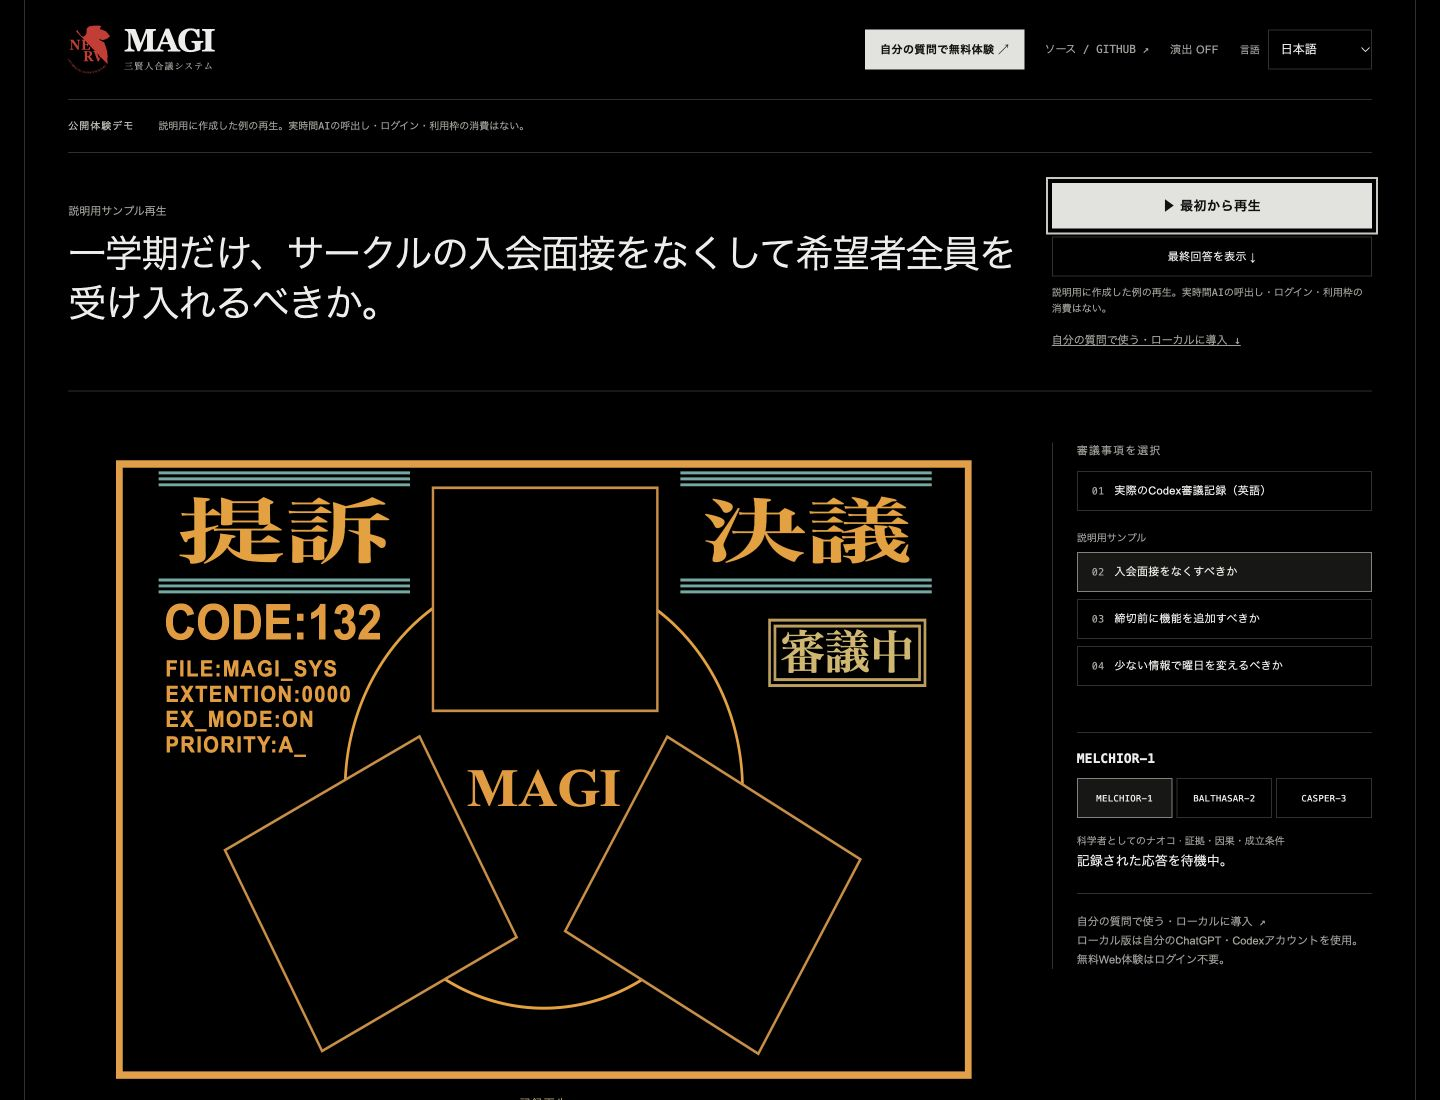
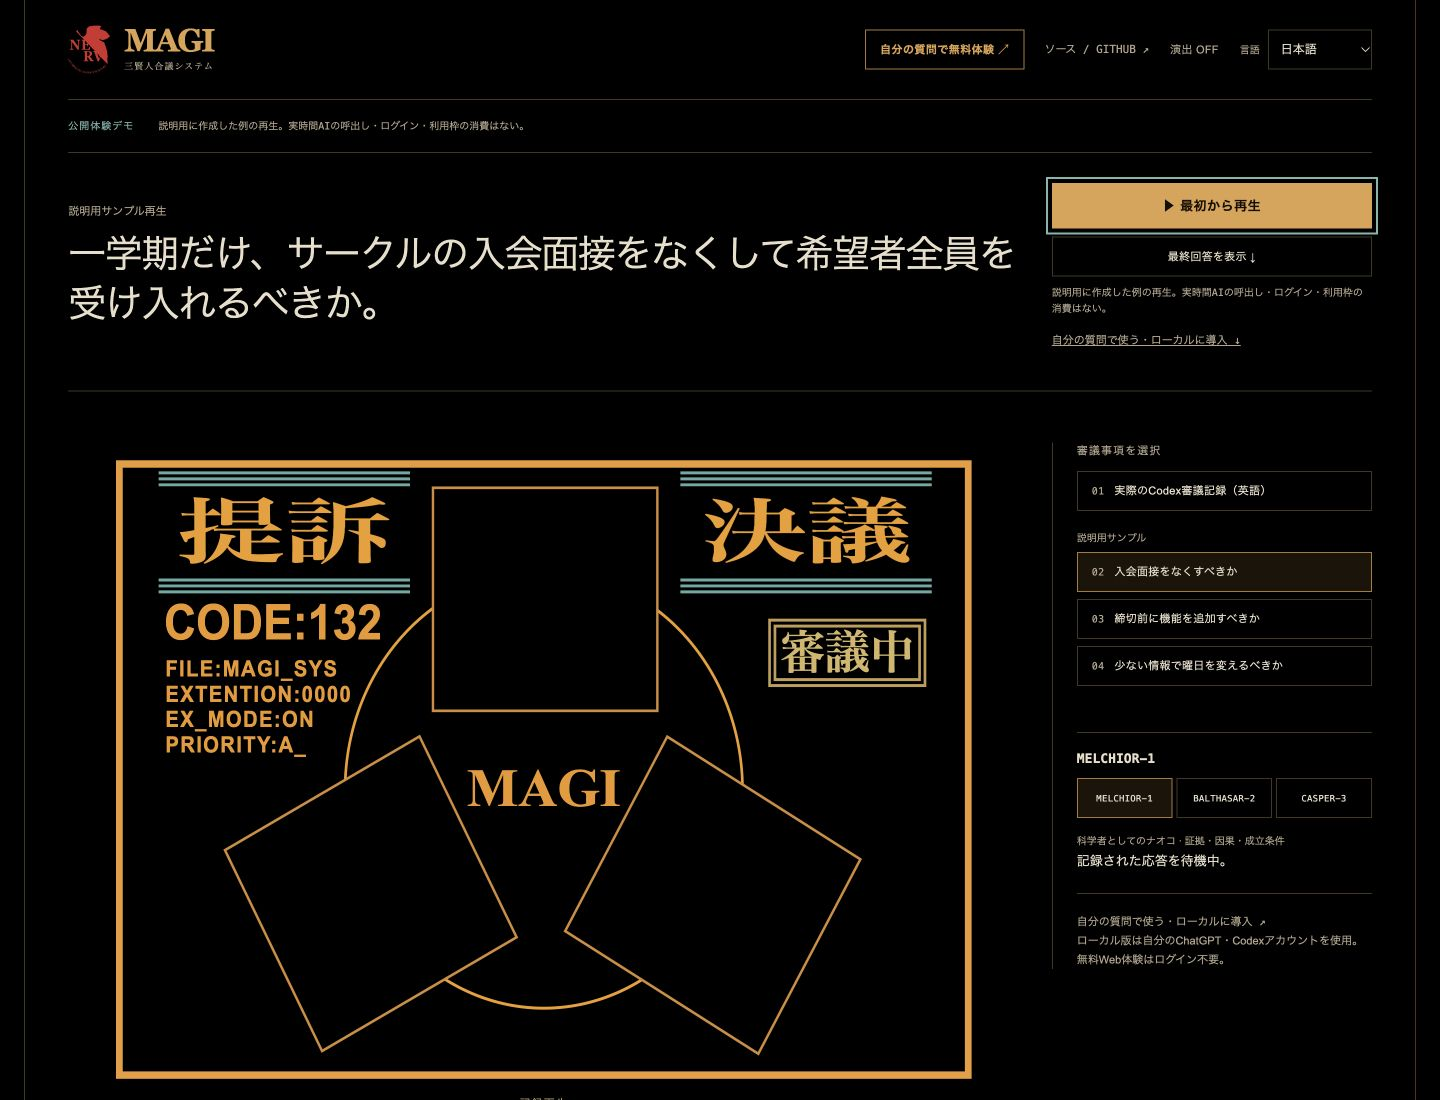
Unify the public frame with MAGI amber and cyan

diff --git a/src/demo/frame.css b/src/demo/frame.css
@@ -1,11 +1,14 @@
-/* Celetix reference: black canvas, fine rules, quiet type, square controls.
-   These styles surround the original MAGI drawing; its geometry and palette
-   deliberately retain their own rules. No external fonts or assets are used. */
+/* Celetix informs the spacing and fine rules. The surrounding palette belongs
+   to MAGI: black, warm ivory, amber and restrained cyan. The original drawing
+   keeps its own rules. No external fonts or assets are used. */
 .demo-shell {
-  --frame-text: #ededeb;
-  --frame-muted: #a1a19c;
-  --frame-line: #30302e;
-  --frame-surface: #080808;
+  --frame-text: #e8dfca;
+  --frame-muted: #b3a58c;
+  --frame-line: #443724;
+  --frame-surface: #0a0906;
+  --frame-accent: #dfa24f;
+  --frame-accent-soft: #a9793c;
+  --frame-cyan: #7db7ac;
   color: var(--frame-text);
   font-family: Arial, 'Hiragino Kaku Gothic ProN', 'Malgun Gothic', sans-serif;
 }
@@ -31,28 +34,28 @@
   font-weight: 400;
 }
 .demo-shell button:hover:not(:disabled) {
-  color: #fff;
-  border-color: #8b8b85;
-  background: #151515;
+  color: var(--frame-text);
+  border-color: var(--frame-accent-soft);
+  background: #171209;
 }
 .demo-shell button.primary {
-  border-color: #e2e2de;
-  color: #111;
-  background: #e2e2de;
+  border-color: var(--frame-accent);
+  color: #160e04;
+  background: var(--frame-accent);
   font-weight: 600;
 }
 .demo-shell button.primary:hover:not(:disabled) {
-  color: #000;
-  background: #fff;
-  border-color: #fff;
+  color: #160e04;
+  background: #efb866;
+  border-color: #efb866;
 }
 .demo-shell :is(button, a, summary):focus-visible {
-  outline: 2px solid #c8c8c2;
+  outline: 2px solid var(--frame-cyan);
   outline-offset: 4px;
 }
 .demo-shell :is(input, select, textarea):focus {
-  outline: 1px solid #b6b6b0;
-  border-color: #b6b6b0;
+  outline: 1px solid var(--frame-accent-soft);
+  border-color: var(--frame-accent-soft);
 }
 .demo-shell :is(a, .language-control) {
   color: var(--frame-muted);
@@ -78,6 +81,7 @@
 }
 .demo-header .command-masthead strong {
   font-size: 32px;
+  color: var(--frame-accent);
 }
 .demo-header .command-masthead div > span {
   color: var(--frame-muted);
@@ -85,6 +89,15 @@
 }
 .demo-links {
   gap: 12px 20px;
+}
+.demo-shell .demo-links > button.primary {
+  color: var(--frame-accent);
+  border-color: var(--frame-accent-soft);
+  background: transparent;
+}
+.demo-shell .demo-links > button.primary:hover:not(:disabled) {
+  color: #160e04;
+  background: var(--frame-accent);
 }
 .demo-links > button:not(.primary) {
   border-color: transparent;
@@ -102,7 +115,7 @@
   font-size: 10px;
 }
 .demo-notice strong {
-  color: #c6c6c0;
+  color: var(--frame-cyan);
   font-weight: 400;
   letter-spacing: 0.1em;
 }
@@ -167,9 +180,9 @@
   border-color: var(--frame-line);
 }
 .demo-shell :is(.demo-examples button, .demo-personas button)[aria-pressed='true'] {
-  color: #f0f0eb;
-  background: #171716;
-  border-color: #82827b;
+  color: var(--frame-text);
+  background: #1b140a;
+  border-color: var(--frame-accent-soft);
 }
 .demo-shell
   :is(
@@ -196,8 +209,8 @@
   font-weight: 400;
 }
 .demo-shell .sequence-strip [aria-current='step'] {
-  background: #1d1b16;
-  color: #efb660;
+  background: #211708;
+  color: var(--frame-accent);
 }
 .demo-shell :is(.deliberation-status, .answer-details, .answer-sources) {
   border-color: var(--frame-line);
@@ -264,7 +277,7 @@
   color: var(--frame-muted);
 }
 .demo-shell :is(.demo-answer, .demo-inspector):focus {
-  outline-color: #82827b;
+  outline-color: var(--frame-accent-soft);
 }
 .demo-shell .trial-entry {
   padding: 24px 0;

diff --git a/docs/INTERFACE.md b/docs/INTERFACE.md
@@ -70,7 +70,7 @@ The recorded-demo mode is replay-only. A separate **Try your own question — fr
 
 The trial starts with a question field, Start button, remaining IP allowance and reset time. Model, usage and privacy details are in a collapsed **Usage & privacy** section; a short Cloudflare transmission notice remains beside it. There is no introductory slogan or idle instruction beneath the console. Japanese console artwork stays unchanged in all four languages.
 
-The surrounding public interface takes visual cues from [Celetix](https://celetix.com/): black backgrounds, fine gray rules, restrained white type, square controls and more deliberate spacing. The original MAGI geometry, amber palette, Japanese lettering, blue pulses and decision reveal keep their own styles. No Celetix assets, fonts or copy are bundled. Replay, free questions, language selection, video, sharing and local setup remain available.
+The surrounding public interface takes layout cues from [Celetix](https://celetix.com/): fine rules, restrained type, square controls and deliberate spacing. Its colors come from MAGI: black, warm ivory, amber controls, bronze rules and restrained cyan status accents. The original MAGI geometry, Japanese lettering, blue pulses and decision reveal keep their own styles. No Celetix assets, fonts or copy are bundled. Replay, free questions, language selection, video, sharing and local setup remain available.
 
 ![Local app sign-in](./screenshots/login.png)
 

diff --git a/docs/INTERFACE.ko.md b/docs/INTERFACE.ko.md
@@ -26,7 +26,7 @@
 
 공개 무료 체험의 첫 화면은 질문 입력·시작·IP별 남은 횟수·초기화 시각으로 정리했다. 모델·이용 조건·개인정보 설명은 접힌 **이용 안내**에서 확인한다. Cloudflare 전송 안내는 짧게 남기고, 도입 구호와 대기 중 중복 안내는 뺐다. 원작 일본어 콘솔은 네 언어에서 그대로 유지한다.
 
-주변 화면은 [Celetix](https://celetix.com/)의 검은 바탕·가는 회색 선·담백한 흰색 글자·각진 버튼·여백을 참고했다. 중앙 MAGI의 도형·주황색·일본어·청색 점멸·판정 연출은 별도 스타일로 유지한다. Celetix의 이미지·폰트·문구는 가져오지 않았다. 재생·무료 질문·언어 선택·영상·판정 공유·로컬 설치 기능도 유지한다.
+주변 화면의 가는 선·담백한 글자·각진 버튼·여백은 [Celetix](https://celetix.com/)를 참고했다. 색은 MAGI의 검정·따뜻한 아이보리·호박색 버튼·청동색 선·청록색 상태 표시로 통일한다. 중앙 MAGI의 도형·일본어·청색 점멸·판정 연출은 별도 스타일로 유지한다. Celetix의 이미지·폰트·문구는 가져오지 않았다. 재생·무료 질문·언어 선택·영상·판정 공유·로컬 설치 기능도 유지한다.
 
 ![관제 화면](./screenshots/desktop.png)
 

diff --git a/docs/VERIFICATION.md b/docs/VERIFICATION.md
@@ -2,6 +2,10 @@
 
 공개 저장소에는 인증 파일, 개발자의 질문 기록, 실제 계정별 사용량·세션 ID·원본 스크린샷을 포함하지 않는다. 설명 화면은 `tests/fixtures/showcase.ts`의 예시 데이터로 재현한다.
 
+## 2026-10-29 공개 화면 색상 보정
+
+주변 화면의 순백색 버튼·회색 선을 MAGI의 호박색·청동색·따뜻한 아이보리로 조정했다. 청록색은 상태 표시에 사용한다. 여백·가는 선·기능 배치는 유지하며 중앙 콘솔의 기하·색·일본어·점멸·제목 간격은 변경하지 않는다. 추가 모델 호출이나 외부 폰트·자산은 없다.
+
 ## 2026-10-29 v1.5.0 무료 한도 활용과 자연스러운 문체
 
 - 전체 하루 20회 제한을 제거했다. Workers Free의 계정 전체 **10,000 Neurons/일**을 실제 중단 기준으로 사용한다. IP별 하루 10회·동시 2건과 비정상 반복 요청 방지용 1,000회 상한은 유지한다. 화면에 1,000회의 보호 상한 잔여분을 AI 잔량처럼 표시하지 않고, 오늘 접수 수와 IP별 잔여 횟수만 표시한다. 기존 일별 카운터·중복 요청 ID·IP 해시를 초기화하지 않고 정책을 확장했다.

diff --git a/README.md b/README.md
@@ -40,7 +40,7 @@ The video opens with a brief TV-reference dissolve into the app, then replays a 
 
 ## Inside the console
 
-![Current public interface: a quiet monochrome frame around the original Japanese MAGI console](./docs/screenshots/demo-frame-desktop.png)
+![Current public interface: amber controls and warm ivory type around the original Japanese MAGI console](./docs/screenshots/demo-frame-desktop.png)
 
 [Current mobile interface](./docs/screenshots/demo-frame-mobile.png). The gallery below also includes earlier interface captures.
 
